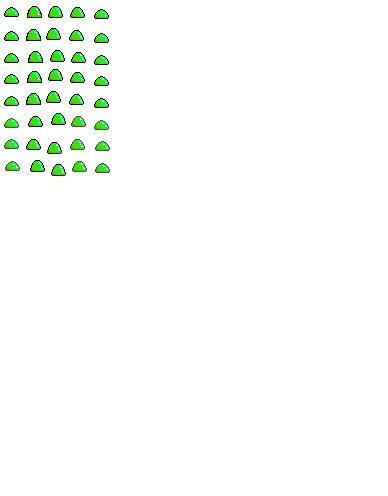
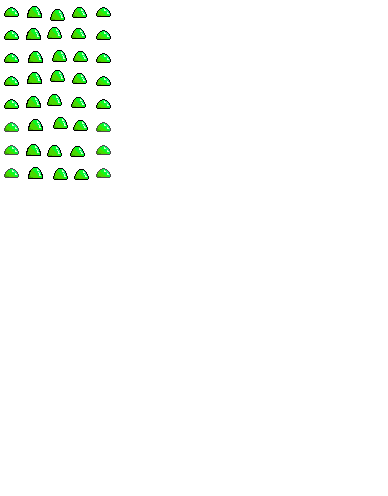
sprite animations fixed

Changed region(s): [[0.0, 0.0, 0.3093, 0.3629]]

diff --git a/src/main/utilities/sprite/SpriteSheet.java b/src/main/utilities/sprite/SpriteSheet.java
@@ -124,8 +124,8 @@ public class SpriteSheet
         //String path = "resources/test32x64.png";
         //String path = "resources/DefaultTile.png";
         String path = "resources/MiniSlime.png";
-        int texW = 64;
-        int texH = 64;
+        int texW = 22;
+        int texH = 22;
 
 
         SwingUtilities.invokeLater(() -> {
